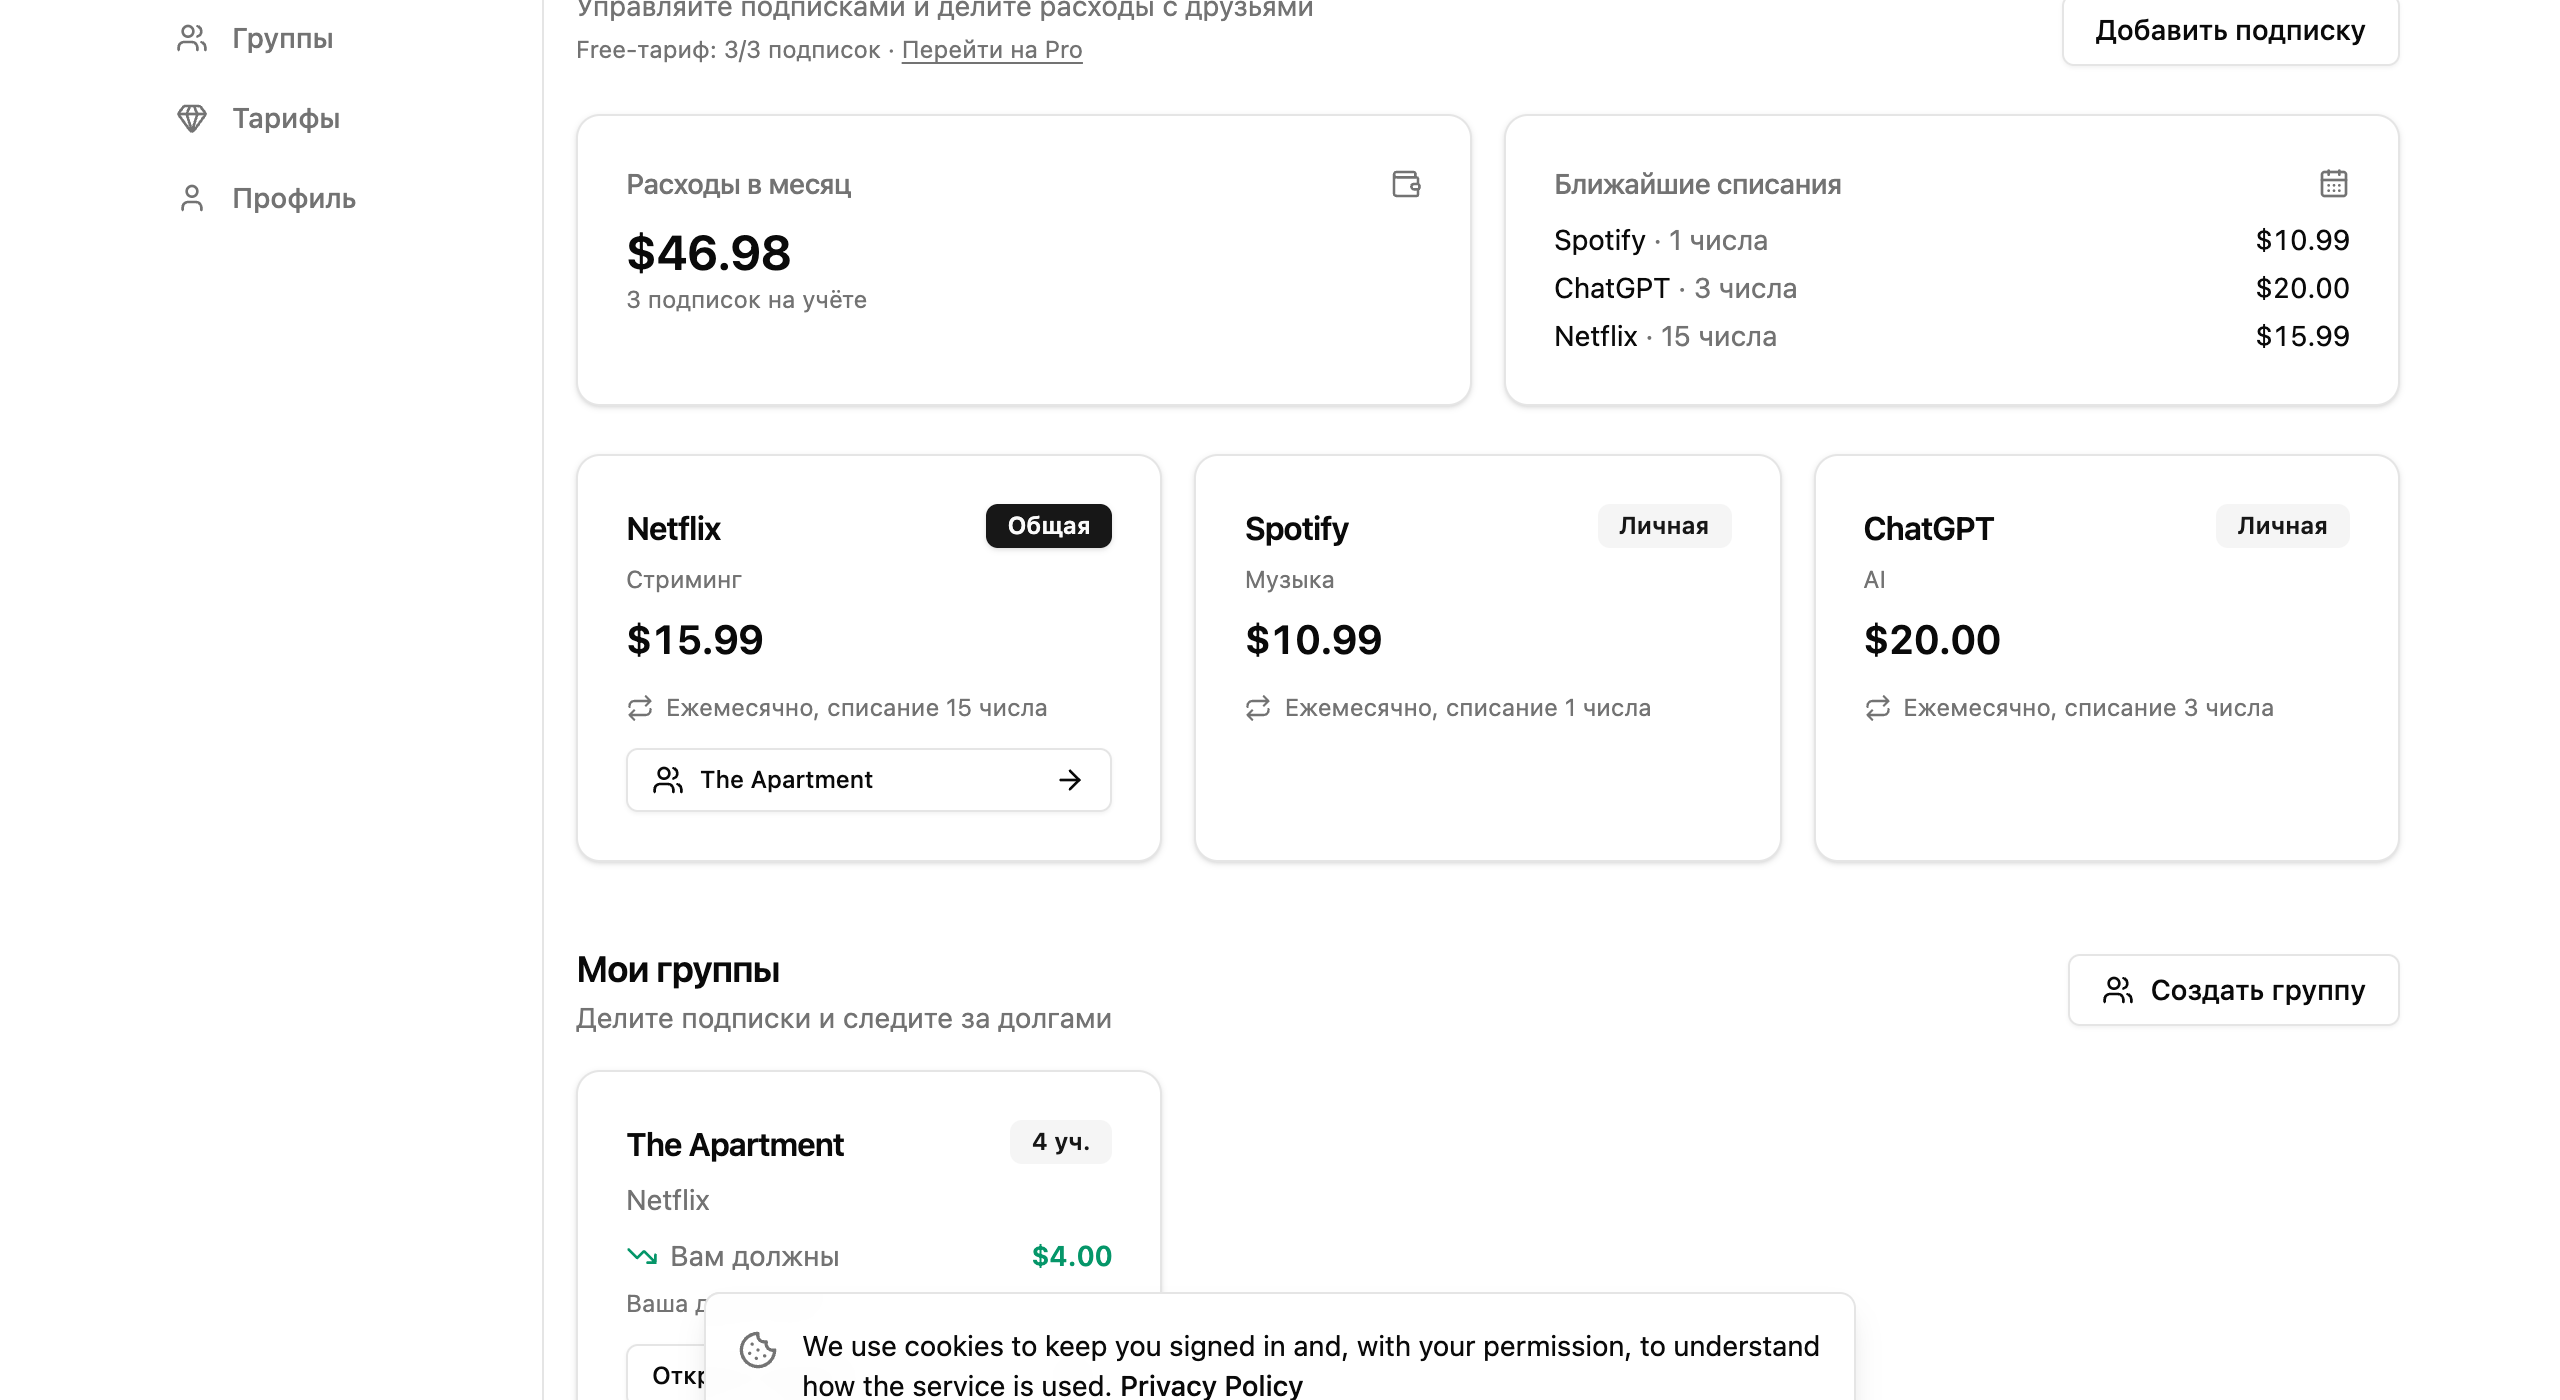
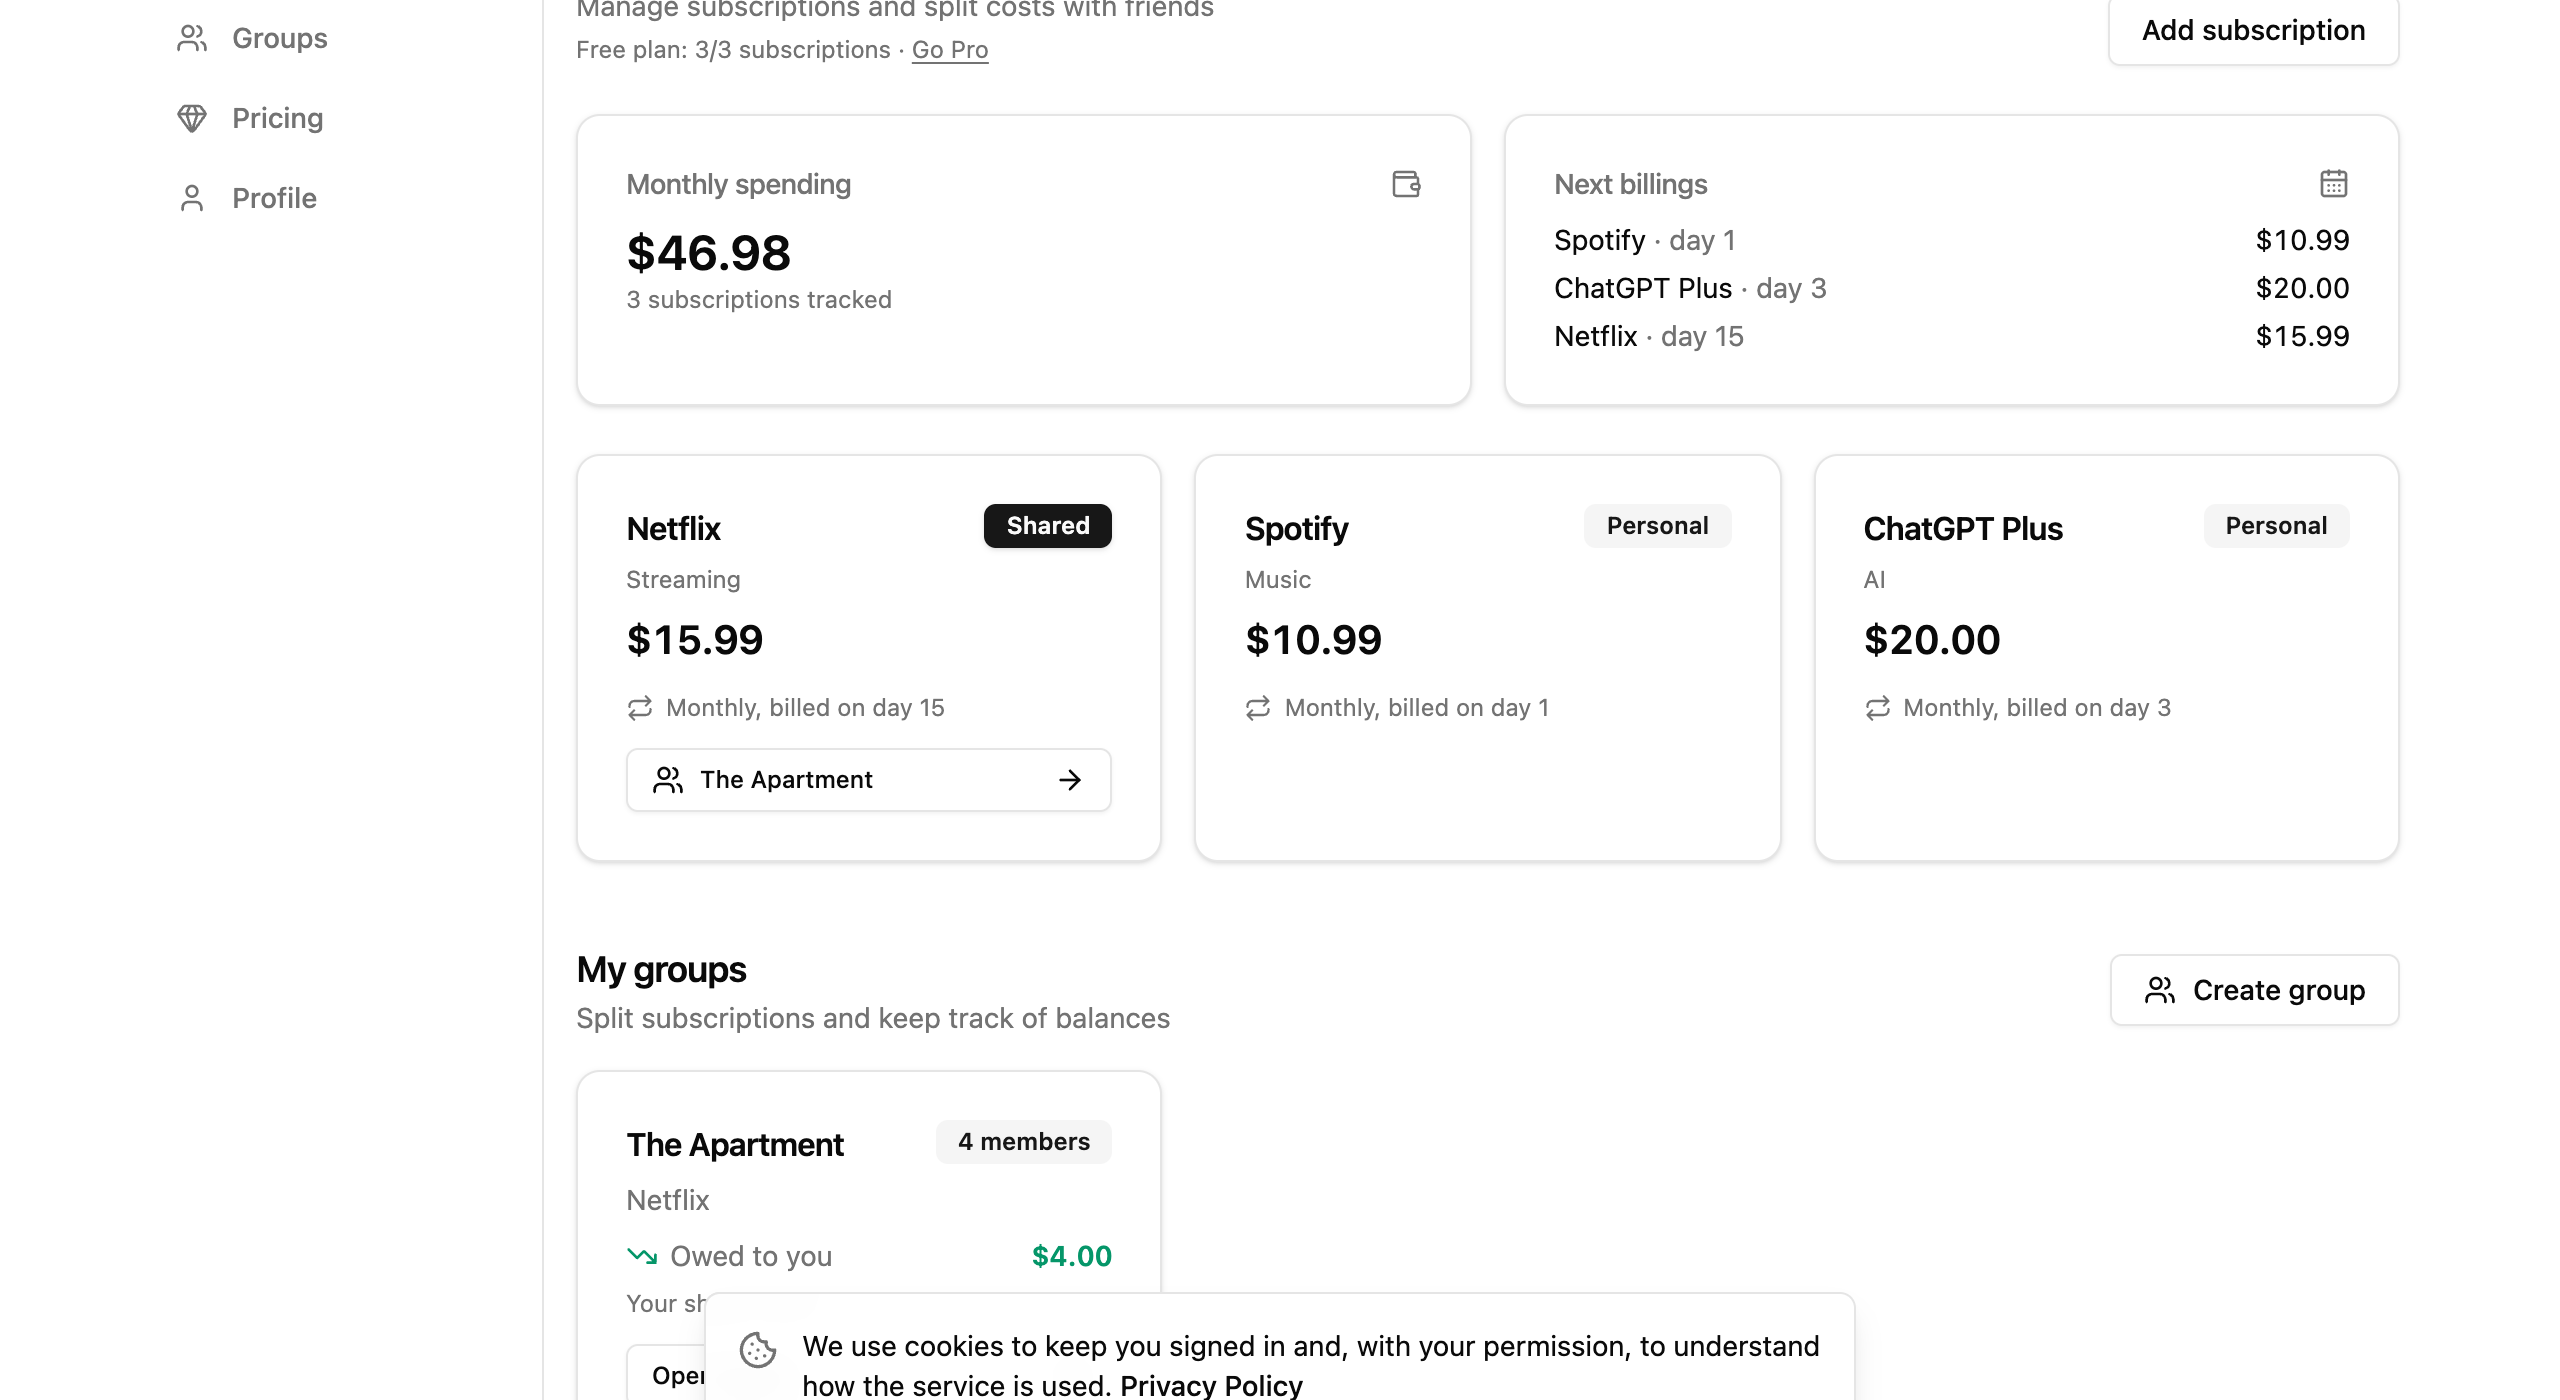
feat: re-capture app screenshots with English UI

diff --git a/components/landing/AppPreview.tsx b/components/landing/AppPreview.tsx
@@ -17,16 +17,16 @@ const SCREENSHOTS = [
     text: "Groups with fair shares. Everyone sees their part down to the penny.",
     src: "/screenshots/group.png",
     alt: "SubSplit group page The Apartment with member shares",
-    width: 768,
-    height: 524,
+    width: 1280,
+    height: 750,
   },
   {
     caption: "Get reminded",
     text: "Automatic reminders (with memes) so nobody has to ask twice.",
     src: "/screenshots/reminder.png",
     alt: "SubSplit payment reminder notification",
-    width: 330,
-    height: 291,
+    width: 320,
+    height: 261,
   },
 ] as const;
 
